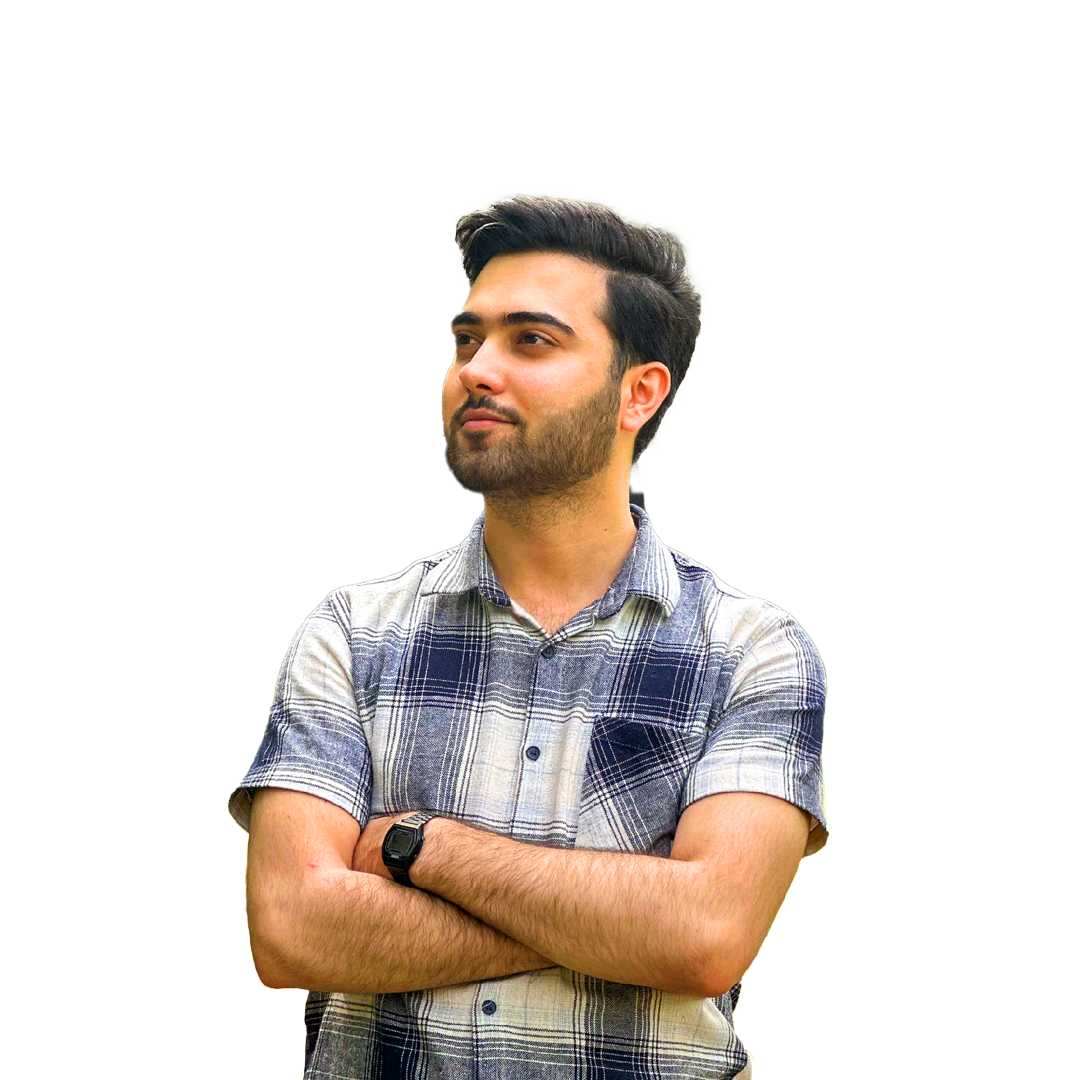
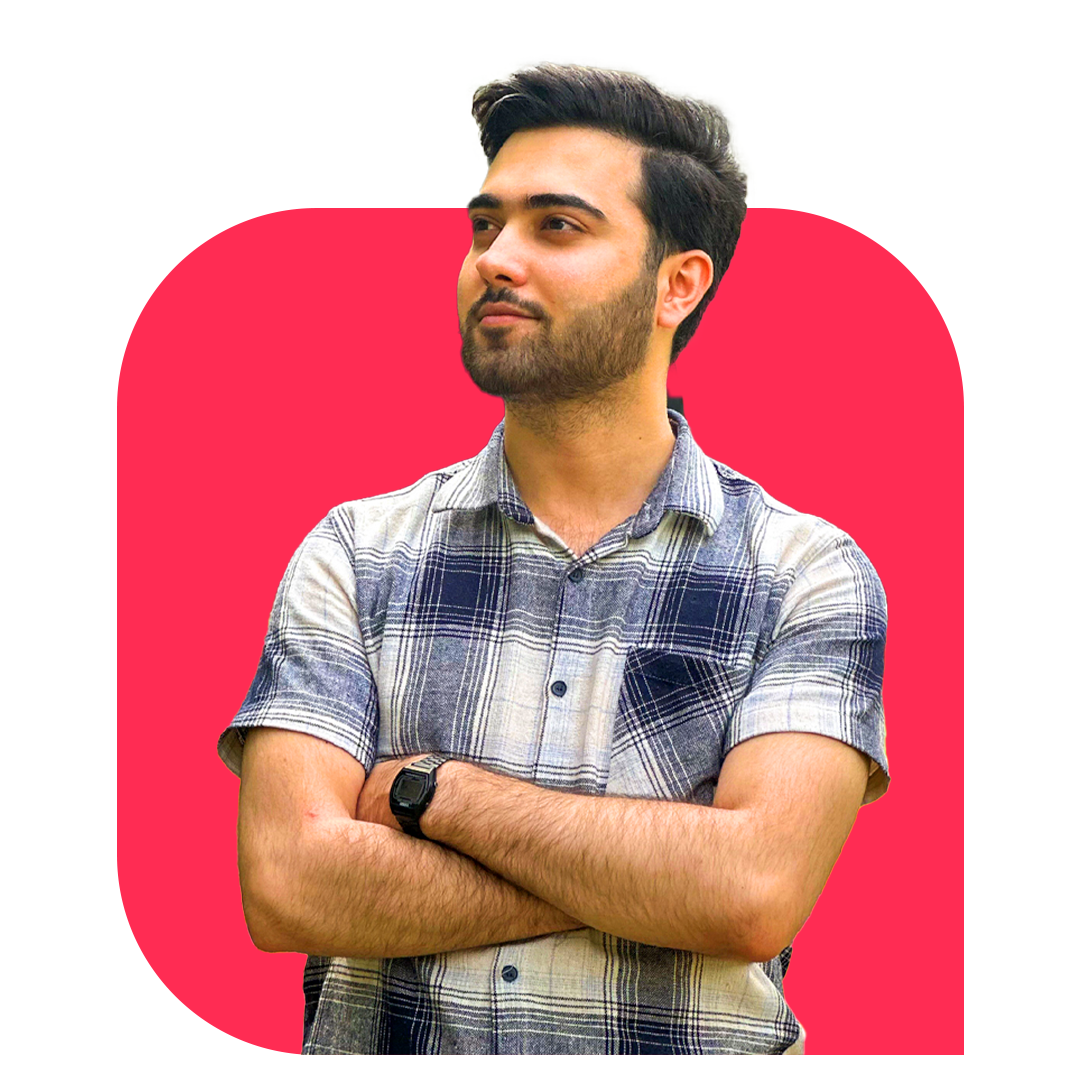
New Update on Team Page

diff --git a/fryn.agency/src/pages/team/index.tsx b/fryn.agency/src/pages/team/index.tsx
@@ -28,7 +28,7 @@ const Team = () => {
           تیم فریان با تکیه بر اصول اولیه آژانس یعنی خلاقیت و محتوای با ارزش شکل گرفته تمامی اعضای تیم هدف مشترکی دارند که آن هم رشد و بهبود کسب و کار مشتریان ما است.
         </p>
       </div>
-      <div className=" h-auto mb-44 member flex lg:gap-52 flex-col lg:flex-row px-10 flex-wrap justify-center items-center">
+      <div className=" h-auto py-44 member flex lg:gap-52 flex-col lg:flex-row px-10 flex-wrap justify-center items-center bg-white">
         <Card img={reza} name="رضا آقاجانی" role="بنیان گذار فریان"/>
         <Card img={mmd} name="امیر محمد سپاهی" role="مدیر خلاقیت و متخصص بازاریابی محتوایی" />
         <Card img={nazanin} name="نازنین حسینی" role="مدیر خلاقیت و تولید کننده محتوا"/>

diff --git a/fryn.agency/src/styles/globals.css b/fryn.agency/src/styles/globals.css
@@ -8,6 +8,13 @@
   font-weight: 400;
 }
 
+@keyframes wiggle {
+  0% { transform: rotate(0deg); }
+ 33% { transform: rotate(1deg); }
+ 66% { transform: rotate(-1deg); }
+100% { transform: rotate(0deg); }
+}
+
 @font-face {
   font-family: "Peyda";
   src: url("../../public/fonts/PeydaWeb-SemiBold.woff");
@@ -18,6 +25,17 @@
   font-family: "Peyda";
   src: url("../../public/fonts/PeydaWeb-Black.woff");
   font-weight: 900;
+}
+
+.member-img {
+  animation: none;
+  transition: all 0.5s;
+  filter: grayscale(100%);
+}
+
+.member-img:hover {
+  animation: wiggle 0.2s ease-in;
+  filter: grayscale(0%);
 }
 
 a,

diff --git a/fryn.agency/src/components/Card.tsx b/fryn.agency/src/components/Card.tsx
@@ -14,8 +14,8 @@ const Card = (props: any) => {
   return (
     <>
       <div className="w-1/2 lg:w-1/4">
-        <Image src={props.img} alt="" />
-        <div className="box w-full border border-rose-500 bg-white px-4 py-4">
+        <Image src={props.img} alt="" className="member-img"/>
+        <div className="box w-full border-4 rounded-tl-2xl rounded-tr-2xl rounded-bl-2xl border-rose-500 bg-white px-4 py-4">
           <h1 className="text-center font-bodyFont text-3xl font-bold text-rose-500">
             {props.name}
           </h1>
